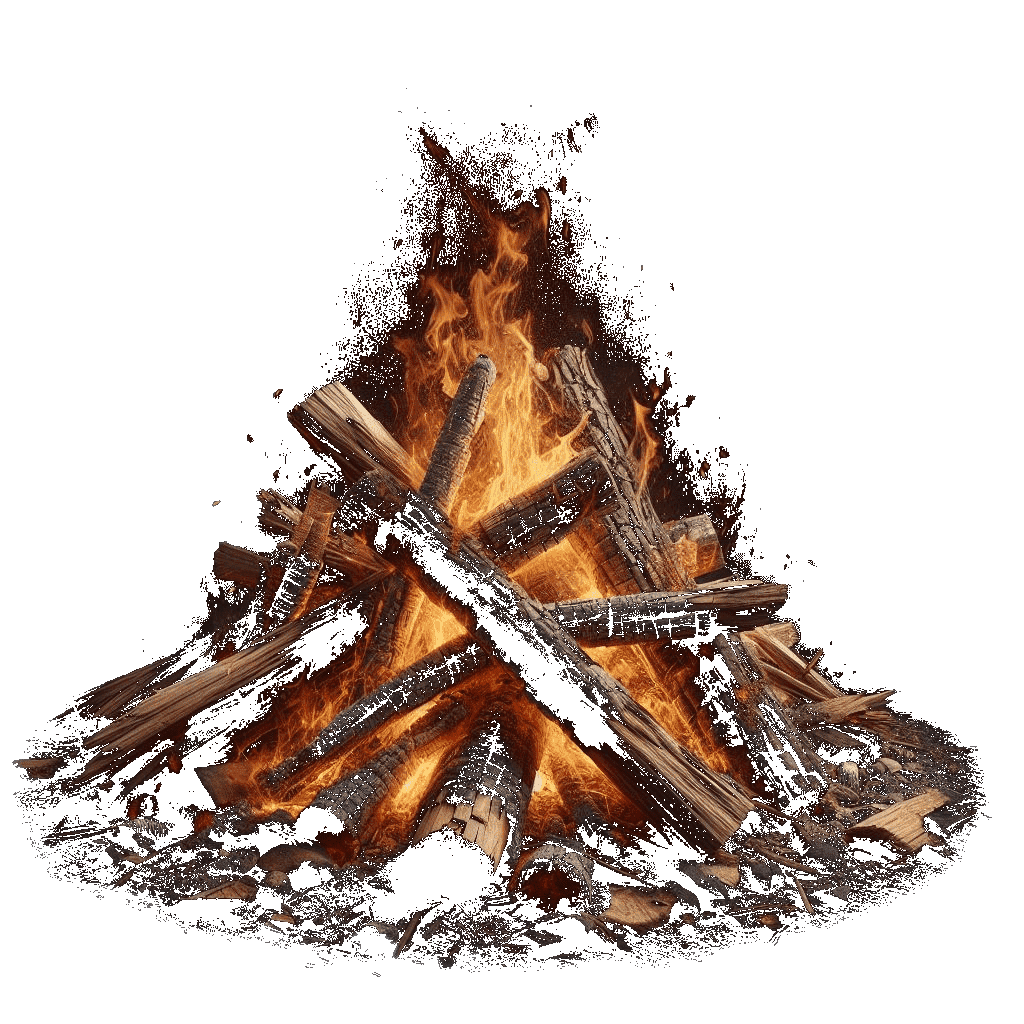
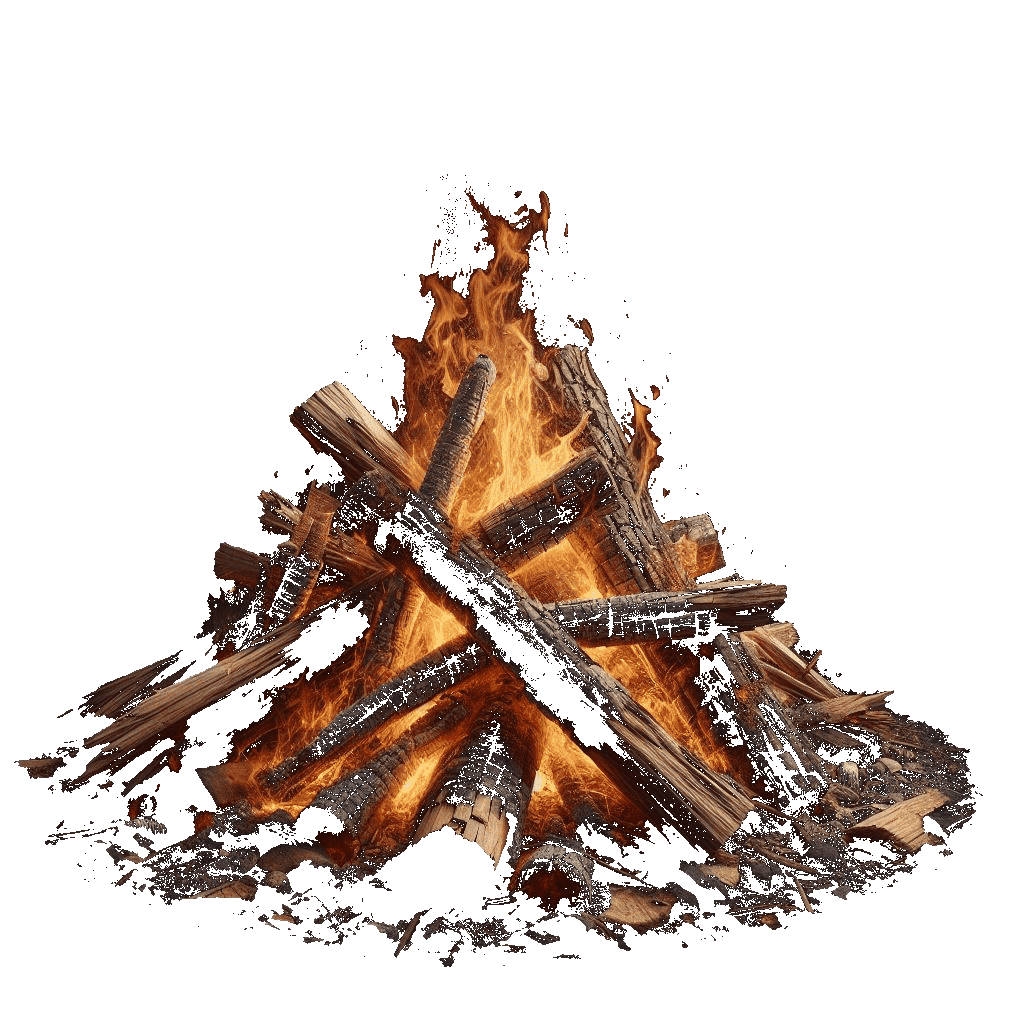
make the desing responsive, minor style change

diff --git a/fire.css b/fire.css
@@ -1,23 +1,36 @@
-:root {
-    --aspect-ratio: 1.2;
-}
-
 body {
     margin: 0;
     padding: 0;
 }
 
-.bonfire {
+.container {
     position: relative;
     height: 100vh;
     width: 100vw;
 }
 
+.background {
+    position: absolute;
+    z-index: -1;
+    height: 100%;
+    width: 100%;
+    background-color: black;
+}
+
+.bonfire {
+    position: absolute;
+    height: 100vmin;
+    width: 100vmin;
+    bottom: 0;
+    left: calc(((100vw - 100vmin) / 2));
+    background-color: rgba(114, 99, 90, 0.13);
+}
+
 .bon_back {
     position: absolute;
     z-index: 0;
-    width: 30vw;
-    height: calc(30vw / var(--aspect-ratio));
+    width: 30vmin;
+    height: 30vmin;
     bottom: 0;
     left: 50%;
     transform: translateX(-50%);
@@ -35,20 +48,20 @@ body {
 .fire {
     position: absolute;
     z-index: 1;
-    width: 100vw;
-    height: 100vh;
+    width: 100vmin;
+    height: 100vmin;
     bottom: 0;
 
-    mix-blend-mode: plus-lighter; /* making sure that flickering is making the fire ligther */
+    mix-blend-mode: hard-light; /* making sure that flickering is making the fire ligther */
 }
 
 .fire.on {
     background-image: url(noiseSmall.svg), url(noise1.svg), url(noise.svg),
         linear-gradient(180deg, #000000, #656565d1 50%, #ffb100);
-    background-size: 50vmin 50vmin, 50vmin 50vmin, 50vmin 50vmin, 100% 100%;
-    background-blend-mode: color-burn, color-burn, color-burn, hard-light;
+    background-size: 50% 50%, 50% 50%, 50% 50%, 100% 100%;
+    background-blend-mode: difference, difference, difference, darken;
 
-    filter: sepia(1) contrast(6);
+    filter: sepia(1) contrast(4.5);
 
     animation: firing 10s linear infinite;
 }
@@ -56,21 +69,13 @@ body {
 .smog_limits {
     position: absolute;
     z-index: 2;
-    width: 100vw;
-    height: 100vh;
+    width: 100vmin;
+    height: 100vmin;
     bottom: 0;
 
     background-image: url(noiseSmall.svg),
-        radial-gradient(
-            ellipse 50vmax 90vmax at 30% 65%,
-            #000000 30%,
-            #ffffff 52%
-        ),
-        radial-gradient(
-            ellipse 50vmax 90vmax at 70% 65%,
-            #000000 30%,
-            white 52%
-        );
+        radial-gradient(ellipse 50% 90% at 30% 65%, #000000 30%, #ffffff 52%),
+        radial-gradient(ellipse 50% 90% at 70% 65%, #000000 30%, white 52%);
     background-size: 50vmin 50vmin, 100%, 100%;
     background-blend-mode: difference;
 
@@ -84,8 +89,8 @@ body {
 .fire_limits {
     position: absolute;
     z-index: 3;
-    width: 100vw;
-    height: 100vmax;
+    width: 100vmin;
+    height: 100vmin;
     bottom: 0;
 
     background-image: radial-gradient(
@@ -104,8 +109,8 @@ body {
 .fire_lights {
     position: absolute;
     z-index: 4;
-    width: 100vw;
-    height: calc(100vw / var(--aspect-ratio));
+    width: 100vmin;
+    height: 100vmin;
     bottom: 0;
 
     background-image: radial-gradient(
@@ -126,19 +131,19 @@ body {
     background-size: contain;
     background-blend-mode: color-burn;
 
-    /* animation: flickeringLights 4s ease-in-out infinite; */
+    animation: flickeringLights 4s ease-in-out infinite;
 }
 
 .bon_front {
     position: absolute;
     z-index: 5;
-    width: 30vw;
-    height: calc(30vw / var(--aspect-ratio));
+    width: 30vmin;
+    height: 30vmin;
     bottom: 0;
     left: 50%;
     transform: translateX(-50%);
 
-    background-image: url(bonfire2.png);
+    background-image: url(bonfire.png);
     background-position: 51% 100%;
     background-repeat: no-repeat;
     background-size: contain;
@@ -185,7 +190,7 @@ button {
         filter: brightness(0);
     }
     50% {
-        filter: brightness(2);
+        filter: brightness(3);
     }
     100% {
         filter: brightness(0);

diff --git a/index.html b/index.html
@@ -5,14 +5,19 @@
         <link rel="stylesheet" type="text/css" href="fire.css" />
     </head>
     <body>
-        <div class="bonfire">
-            <div class="bon_back"></div>
-            <div id="fire" class="fire"></div>
-            <div class="smog_limits"></div>
-            <div class="fire_limits"></div>
-            <div class="fire_lights"></div>
-            <div class="bon_front"></div>
-            <button id="start" onclick="startSound()">START THE FIRE</button>
+        <div class="container">
+            <div class="background"></div>
+            <div class="bonfire">
+                <div class="bon_back"></div>
+                <div id="fire" class="fire"></div>
+                <div class="smog_limits"></div>
+                <div class="fire_limits"></div>
+                <div class="fire_lights"></div>
+                <div class="bon_front"></div>
+                <button id="start" onclick="startSound()">
+                    START THE FIRE
+                </button>
+            </div>
         </div>
 
         <audio id="fireSound" loop>
